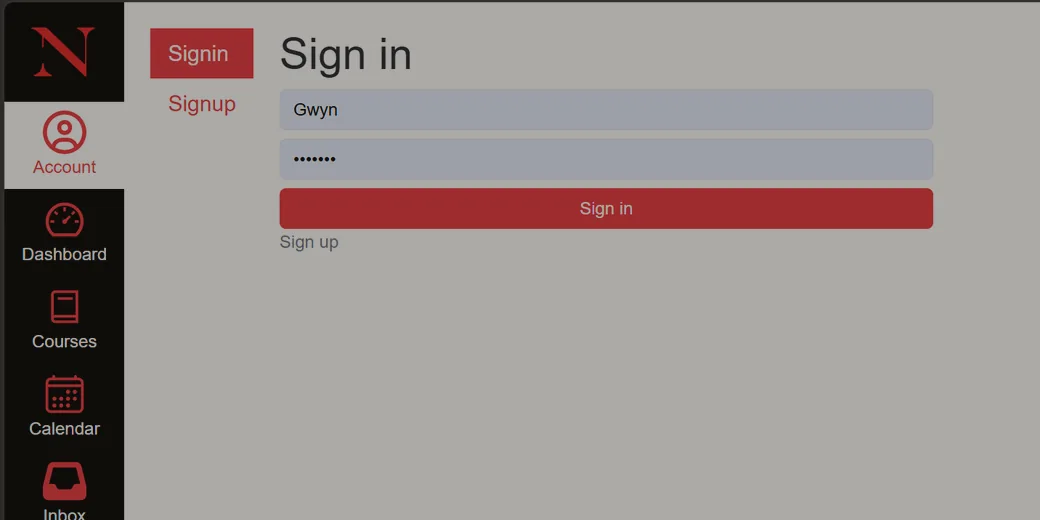
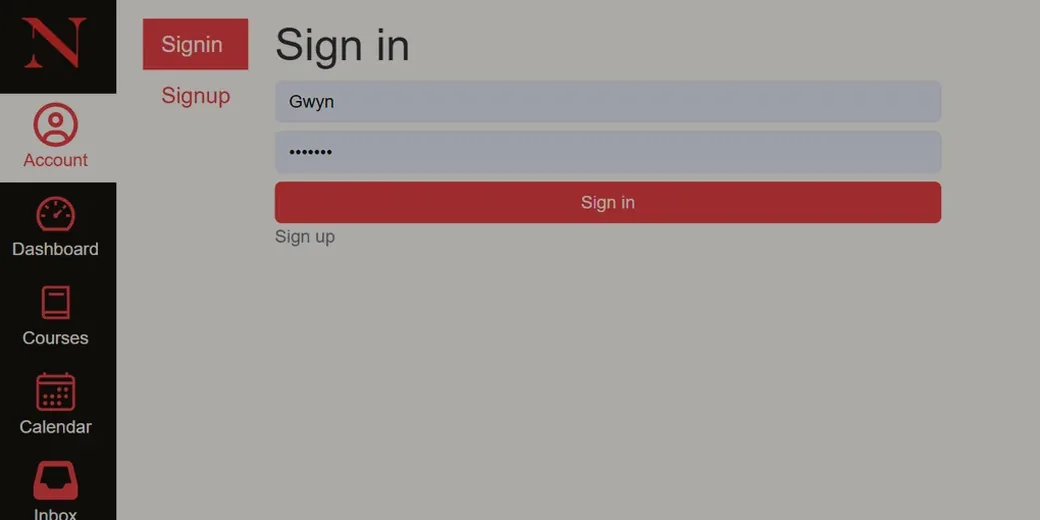
Serve the screenshots at the size the layout asks for
Measured what the layout actually renders: a card never goes wider than
363 CSS px and the detail panel never wider than 756. Every shot was a
single 1040w file, so a card was being handed about three times the
pixels it could show at 1x, and still half again too many at 2x.

Each shot now has 520w and 780w companions beside it and the img picks
between them. The grid costs 86kB instead of 299kB on a one-to-one
display, and 155kB instead of 299kB at 2x. The full file is still there
for the detail panel on a retina screen, which is the one place the
pixels are genuinely used.

The originals are untouched. They sit around quality 84 already, and
re-encoding a lossy source compounds the loss for a few percent; the
companions are downscaled, which hides the source's artefacts rather
than stacking on them, so they take a lower quality without showing it.

Kanbas also had three rows of window border captured along its top,
which read as a black bar against the light theme. Cropped, taking the
widest 2:1 window from what is left so the ratio survives without
stretching.

And the Himmel quote is set to be read. Instrument Serif thins out
badly at small sizes, and in italic at 13px in the secondary tone it
was a grey smudge; it carries the page's ink now, a size up, with the
leading opened to suit the italic.

diff --git a/src/components/ProjectVisual.jsx b/src/components/ProjectVisual.jsx
@@ -400,11 +400,33 @@ const MAP = {
  * project whose interface has no second skin at all passes a single path,
  * which is served in both, the veil in .shot-veil carrying it across.
  */
-export default function ProjectVisual({ kind, shot, fit = 'cover', veil = true, className = '' }) {
+/**
+ * Every shot in public/shots is authored at 1040w with 520w and 780w
+ * companions beside it. The widths come from what the layout actually asks
+ * for, measured: a card never renders wider than 363 CSS px and the detail
+ * panel never wider than 756. So the full file is about three times the
+ * pixels a card can show at 1x and still half again too many at 2x. srcset
+ * lets the browser take 520 for a plain card, 780 for a retina card or the
+ * detail panel, and the full file only where it is genuinely needed.
+ */
+const TIERS = (src) =>
+  src.endsWith('.webp')
+    ? `${src.replace(/\.webp$/, '-sm.webp')} 520w, ${src.replace(/\.webp$/, '-md.webp')} 780w, ${src} 1040w`
+    : null
+
+export default function ProjectVisual({
+  kind,
+  shot,
+  fit = 'cover',
+  veil = true,
+  sizes = '(min-width: 1024px) 380px, (min-width: 640px) 45vw, 92vw',
+  className = '',
+}) {
   const theme = useThemeName()
   const src = typeof shot === 'string' ? shot : shot && shot[theme]
 
   if (src) {
+    const srcSet = TIERS(src)
     return (
       <div
         className={`relative overflow-hidden bg-raised ${veil ? 'shot-frame' : ''} ${className}`}
@@ -412,6 +434,8 @@ export default function ProjectVisual({ kind, shot, fit = 'cover', veil = true, 
       >
         <img
           src={src}
+          srcSet={srcSet || undefined}
+          sizes={srcSet ? sizes : undefined}
           alt=""
           loading="lazy"
           decoding="async"

diff --git a/src/components/Staff.jsx b/src/components/Staff.jsx
@@ -145,12 +145,17 @@ export default function Staff() {
 
       {/* Attributed to Himmel alone. Naming the series would explain the joke;
           anyone who knows it will place the staff from the line. */}
-      <figcaption className="ml-auto mt-1 max-w-[30ch] text-right">
-        <p className="font-serif text-[13px] italic leading-snug text-muted sm:text-sm">
+      {/* Set to be read, not just to be there. Instrument Serif is a high
+          contrast face whose hairlines thin out badly at small sizes, and in
+          italic at 13px in the secondary tone this was a grey smudge. It
+          carries the page's own ink now, a size up, with the leading opened
+          to suit the italic. */}
+      <figcaption className="ml-auto mt-3 max-w-[34ch] text-right">
+        <p className="font-serif text-[15px] italic leading-[1.5] text-bone/90 sm:text-base">
           “It’s not a matter of what exists. What matters is doing what I can for the people
           standing right in front of me”
         </p>
-        <p className="eyebrow mt-2">Himmel</p>
+        <p className="eyebrow mt-2.5">Himmel</p>
       </figcaption>
     </figure>
   )

diff --git a/src/components/ProjectDetail.jsx b/src/components/ProjectDetail.jsx
@@ -75,6 +75,7 @@ export default function ProjectDetail({ project: p, onClose }) {
             shot={p.shot}
             fit="contain"
             veil={false}
+            sizes="(min-width: 640px) 760px, 92vw"
             className="aspect-[2/1] max-h-[min(42vh,400px)]"
           />
 
